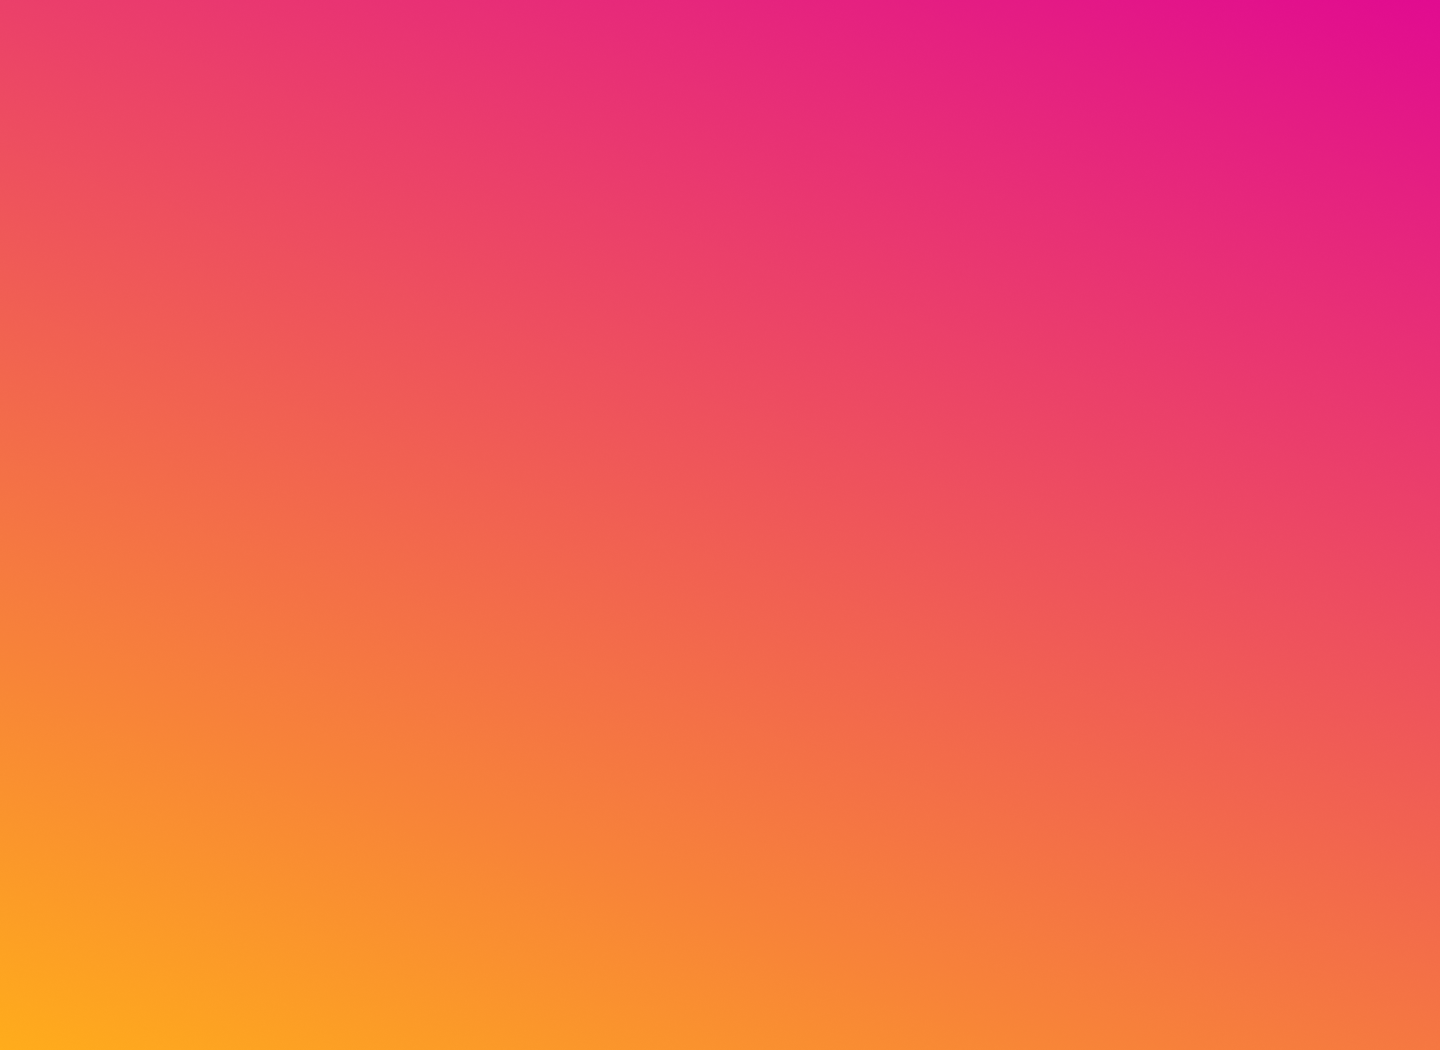
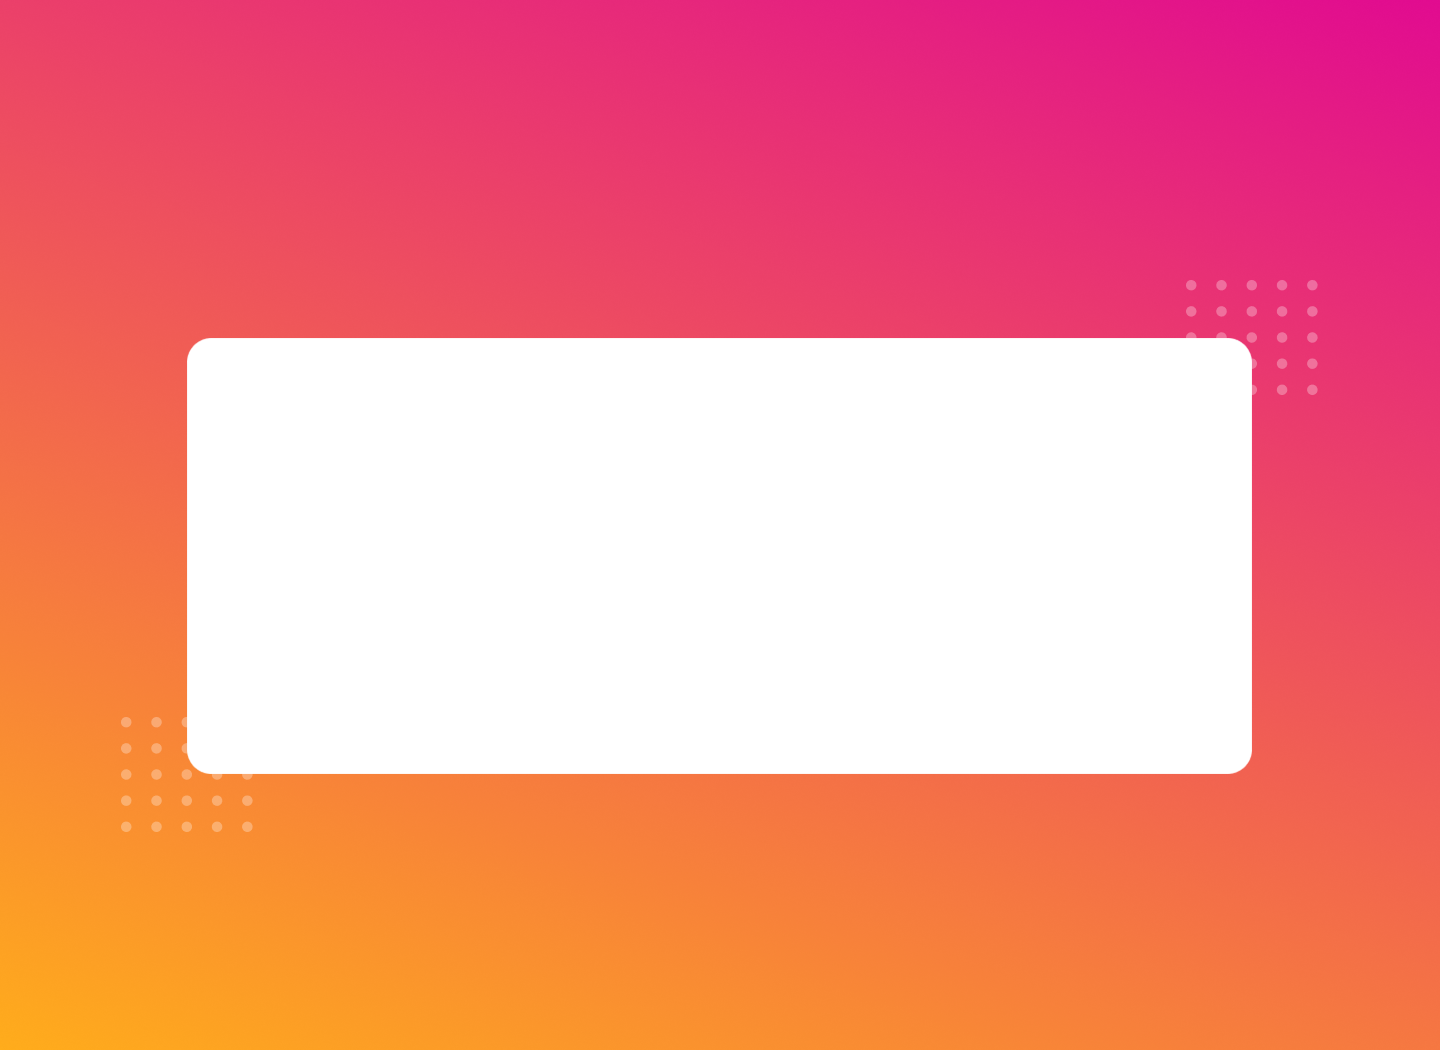
Section-3 and Section-4
Adding Slider of games and User Comments

diff --git a/index.html b/index.html
@@ -16,8 +16,66 @@
         <!-- Core theme CSS (includes Bootstrap)-->
         <link rel="stylesheet" href="https://maxcdn.bootstrapcdn.com/bootstrap/4.0.0/css/bootstrap.min.css" integrity="sha384-Gn5384xqQ1aoWXA+058RXPxPg6fy4IWvTNh0E263XmFcJlSAwiGgFAW/dAiS6JXm" crossorigin="anonymous">
         <link href="css/styles.css" rel="stylesheet" />
-        <link href="https://cdn.jsdelivr.net/npm/bootstrap@5.0.2/dist/css/bootstrap.min.css" rel="stylesheet">
-<script src="https://cdn.jsdelivr.net/npm/bootstrap@5.0.2/dist/js/bootstrap.bundle.min.js"></script>
+        <link rel="stylesheet" href="https://maxcdn.bootstrapcdn.com/bootstrap/4.5.2/css/bootstrap.min.css">
+ 
+        <link rel="stylesheet" href="https://cdnjs.cloudflare.com/ajax/libs/OwlCarousel2/2.3.4/assets/owl.carousel.min.css" />
+        <link rel="stylesheet" href="https://cdnjs.cloudflare.com/ajax/libs/OwlCarousel2/2.3.4/assets/owl.theme.default.min.css"/>
+        <style>
+        @import url('https://fonts.googleapis.com/css2?family=Mulish:wght@300;400;500&display=swap');
+      .section-4 {
+          font-family: 'Mulish', sans-serif;
+           background-image: url("../assets/img/Bg_Section-4.png");
+         background-repeat: no-repeat;
+         background-size: cover;
+
+      }
+      #customers-testimonials .item {
+          text-align: center;
+          padding: 20px;
+          margin-bottom: 50px;
+          opacity: .2;
+          -webkit-transform: scale3d(0.8, 0.8, 1);
+          transform: scale3d(0.8, 0.8, 1);
+          -webkit-transition: all 0.3s ease-in-out;
+          -moz-transition: all 0.3s ease-in-out;
+          transition: all 0.3s ease-in-out;
+      }
+      #customers-testimonials .owl-item.active.center .item {
+          opacity: 1;
+          -webkit-transform: scale3d(1.0, 1.0, 1);
+          transform: scale3d(1.0, 1.0, 1);
+      }
+      .owl-carousel .owl-item img {
+          transform-style: preserve-3d;
+          max-width: 90px;
+          margin: 0 auto 17px;
+      }
+      #customers-testimonials.owl-carousel .owl-dots .owl-dot.active span, #customers-testimonials.owl-carousel .owl-dots .owl-dot:hover span {
+          background: #4280bd;
+          transform: translate3d(0px, -50%, 0px) scale(0.6);
+      }
+      #customers-testimonials.owl-carousel .owl-dots {
+          display: inline-block;
+          width: 100%;
+          text-align: center;
+      }
+      #customers-testimonials.owl-carousel .owl-dots .owl-dot {
+          display: inline-block;
+          outline: none;
+      }
+      #customers-testimonials.owl-carousel .owl-dots .owl-dot span {
+          background: #fff;
+          display: inline-block;
+          height: 20px;
+          margin: 0 2px 5px;
+          transform: translate3d(0px, -50%, 0px) scale(0.3);
+          transform-origin: 50% 50% 0;
+          transition: all 250ms ease-out 0s;
+          width: 20px;
+          border-radius: 100%;
+      }
+       
+        </style>
 
     </head>
     <body id="page-top">
@@ -57,14 +115,14 @@
             <a class="btn btn-success btn-xl" href="#services">Get your link on Sms</a>
 
             </div>
-            <div>
-             <img class="Qr_allignment" src="assets/QR.png" >
-            </div>
+            
+            <div class="Qr_allignment">
+                <div style="margin-left: 25px;"><p class="text_allignment">Scan QR Code to download the app</p></div>
+                  <img  src="assets/QR.png" >
+                  <img src="assets/verified.png" >
+                </div>
             <br>
-            <p>Scan QR Code to<br> download the app</p>
-            <div>
-                <img class="verified_icon_allignment"src="assets/verified.png" >
-               </div>
+               
                <br>
                <p>Security Verified</p>
         </header>
@@ -122,9 +180,55 @@
                            </div>
                            <br>
                            <br>
-                           <div>
-                               <img class="mx-auto d-block"src="assets/white_rectangle.png" >
-                           </div>
+                           <div class="container-lg my-3">
+                            <div id="myCarousel" class="carousel slide" data-bs-ride="carousel">
+                                <!-- Carousel indicators -->
+                                <ol class="carousel-indicators">
+                                    <li data-bs-target="#myCarousel" data-bs-slide-to="0" class="active"></li>
+                                    <li data-bs-target="#myCarousel" data-bs-slide-to="1"></li>
+                                    <li data-bs-target="#myCarousel" data-bs-slide-to="2"></li>
+                                </ol>
+                                
+                                <!-- Wrapper for carousel items -->
+                                <div class="carousel-inner">
+                                    <div class="carousel-item active">
+                                         <img src="assets/Main Mobile Mockup.png" class=" w-25" alt="Slide 1">
+                                         <br>
+                                        <br><br><br>
+                                        <div class="carousel-caption">
+                                            <h5 class="Caption_Color_pink"><b>Sky Rider</b></h5>
+                                           <!-- <p class="Caption_Color_pink">Some demonstrative placeholder content for the first slide.</p>--->
+                                        </div>
+                                    </div>
+                                    <div class="carousel-item">
+                                        <img src="assets/Right Mobile Mockup.png" class="w-25" alt="Slide 2">
+                                        <br>
+                                        <br><br><br>
+                                        <div class="carousel-caption">
+                                            <h5 class="Caption_Color_pink"><b>Snake Rush</b></h5>
+                                       <!---<p class="Caption_Color_pink">Some demonstrative placeholder content for the second slide.</p>-->
+                                        </div>
+                                    </div>
+                                    <div class="carousel-item">
+                                        <img src="assets/Left Mobile Mockup.png" class=" w-25" alt="Slide 3">
+                                        <br>
+                                        <br><br><br>
+                                        <div class="carousel-caption">
+                                            <h5 class="Caption_Color_pink"><b>Knife Hit<b></h5>
+                                           <!--- <p class="Caption_Color_pink">Some demonstrative placeholder content for the third slide.</p>-->
+                                        </div>
+                                    </div>
+                                </div>
+                                                      <!-- Carousel controls -->
+                                <a class="carousel-control-prev Caption_Color_pink" href="#myCarousel" data-bs-slide="prev">
+                                    <span class="carousel-control-prev-icon"></span>
+                                </a>
+                                <a class="carousel-control-next" href="#myCarousel" data-bs-slide="next">
+                                    <span class="carousel-control-next-icon"></span>
+                                </a>
+                            </div>
+                            </div>
+                         
                         </div>
                   </div>
                  </section>
@@ -166,20 +270,65 @@
                             </div>
         </section>
             <!----Forth Section---->
-        <section class="section-4" id="section-4">
+         <section class="testimonials section-4">
             <div class="container">
-                <div class="text-center">
-                    <h2 class="section-heading text-uppercase heading_Color_white " >User Comments</h2>
-                <div>
+                     <div class="row">
+                <div class="col-sm-12">
+                  <div class="container-fluid px-3 px-sm-5 my-5 text-center">
+                    <h2 class="section-heading text-uppercase heading_Color_white">User Comments</h2>
+                  </div>
+                  <div>
                     <img class="mx-auto d-block"src="assets/whiteline.png" >
+                   </div>
+                   <br>
+                   <br>
+                  <div id="customers-testimonials" class="owl-carousel">
+         
+                    <!--TESTIMONIAL 1 -->
+                    <div class="item">
+                      <div class="shadow-lg p-4 bg-white rounded">
+                        <img src="https://annedece.sirv.com/Images/pexels-andrea-piacquadio-762020%20(1).jpg" alt="">
+                        <h5 class="pb-2 pt-3 Caption_Color_pink">Ximena Vegara</h5>
+                        <p class="mb-0 text-muted ">Dramatically maintain clicks-and-mortar solutions without functional solutions. Completely synergize resource taxing relationships via premier niche markets. Professionally cultivate.</p>
+                      </div>             
+                    </div>
+                    <!--END OF TESTIMONIAL 1 -->
+                    <!--TESTIMONIAL 2 -->
+                    <div class="item">
+                      <div class="shadow-lg p-4 bg-white rounded">
+                        <img  src="https://annedece.sirv.com/Images/pexels-andrea-piacquadio-839011.jpg" alt="">
+                        <h5 class="pb-2 pt-3">Kevin Rich</h5>
+                        <p class="mb-0 text-muted">Dramatically maintain clicks-and-mortar solutions without functional solutions. Completely synergize resource taxing relationships via premier niche markets. Professionally cultivate.</p>
+                      </div>
+                     
+                    </div>
+                    <!--END OF TESTIMONIAL 2 -->
+                    <!--TESTIMONIAL 3 -->
+                    <div class="item">
+                      <div class="shadow-lg p-4 bg-white rounded">
+                        <img src="https://annedece.sirv.com/Images/pexels-stefan-stefancik-91227.jpg" alt="">
+                        <h5 class="pb-2 pt-3">James Deo</h5>
+                        <p class="mb-0 text-muted">Dramatically maintain clicks-and-mortar solutions without functional solutions. Completely synergize resource taxing relationships via premier niche markets. Professionally cultivate.</p>
+                      </div>
+                     
+                    </div>
+                    <!--END OF TESTIMONIAL 3 -->
+                    <!--TESTIMONIAL 4 -->
+                    <div class="item">
+                      <div class="shadow-lg p-4 bg-white rounded">
+                        <img  src="https://annedece.sirv.com/Images/pexels-tim-savage-736716.jpg" alt="">
+                        <h5 class="pb-2 pt-3">Sturt Billy</h5>
+                        <p class="mb-0 text-muted">Dramatically maintain clicks-and-mortar solutions without functional solutions. Completely synergize resource taxing relationships via premier niche markets. Professionally cultivate.</p>
+                      </div>
+                      
+                    </div>
+                    <!--END OF TESTIMONIAL 4 -->
+              
+                  </div>
                 </div>
-                <br>
-                <br>
-                <div>
-                    <img class="mx-auto d-block"src="assets/white_rectangle.png" >
-                </div>
-                </div>
-         </section>
+              </div>
+            </div>
+          </section>
            <!----Footer Section---->
          <section class="section-footer" id="services">
             <div class="container">
@@ -708,5 +857,35 @@
         <!-- * * Activate your form at https://startbootstrap.com/solution/contact-forms * *-->
         <!-- * * * * * * * * * * * * * * * * * * * * * * * * * * * * * * * * * * * * * * * *-->
         <script src="https://cdn.startbootstrap.com/sb-forms-latest.js"></script>
+          <!-- END OF TESTIMONIALS -->
+  <script src="https://ajax.googleapis.com/ajax/libs/jquery/3.5.1/jquery.min.js"></script>
+  <script src="https://cdnjs.cloudflare.com/ajax/libs/OwlCarousel2/2.3.4/owl.carousel.min.js"></script>
+  <script>
+  jQuery(document).ready(function($) {
+                "use strict";
+                //  TESTIMONIALS CAROUSEL HOOK
+                $('#customers-testimonials').owlCarousel({
+                    loop: true,
+                    center: true,
+                    items: 3,
+                    margin: 0,
+                    autoplay: true,
+                    dots:true,
+                    autoplayTimeout: 5000,
+                    smartSpeed: 450,
+                    responsive: {
+                      0: {
+                        items: 1
+                      },
+                      768: {
+                        items: 2
+                      },
+                      1170: {
+                        items: 3
+                      }
+                    }
+                });
+            });
+  </script>
     </body>
 </html>

diff --git a/css/styles.css b/css/styles.css
@@ -11796,13 +11796,22 @@ header.masthead {
   background-position: center center;
   background-size: cover;
 }
+/* Css for section-4*/
+
+
+.text_allignment
+{
+  margin-left:300px;
+}
+
 .Qr_allignment
 {
   margin-right: 350px;
 }
 .verified_icon_allignment
 {
-
+margin-right: 350px;
+padding-bottom: 20px;
 }
 .section-1 {
   background-image: url("../assets/img/Bg_Section-1.png");
@@ -11833,6 +11842,9 @@ header.masthead {
 
 .heading_Color_white {
   color: white;
+}
+.Caption_Color_pink {
+ color: #0dcaf0;
 }
 header.masthead .masthead-subheading {
   font-size: 1.5rem;
